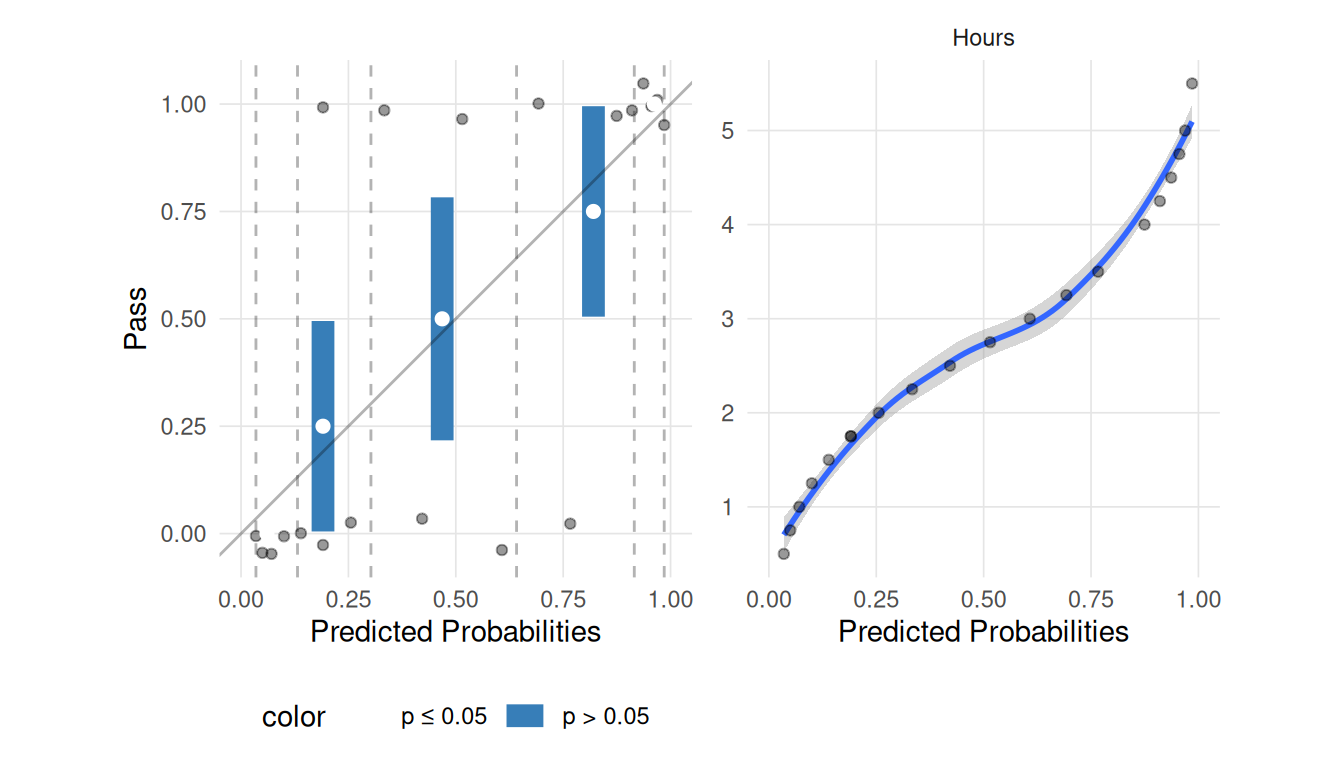
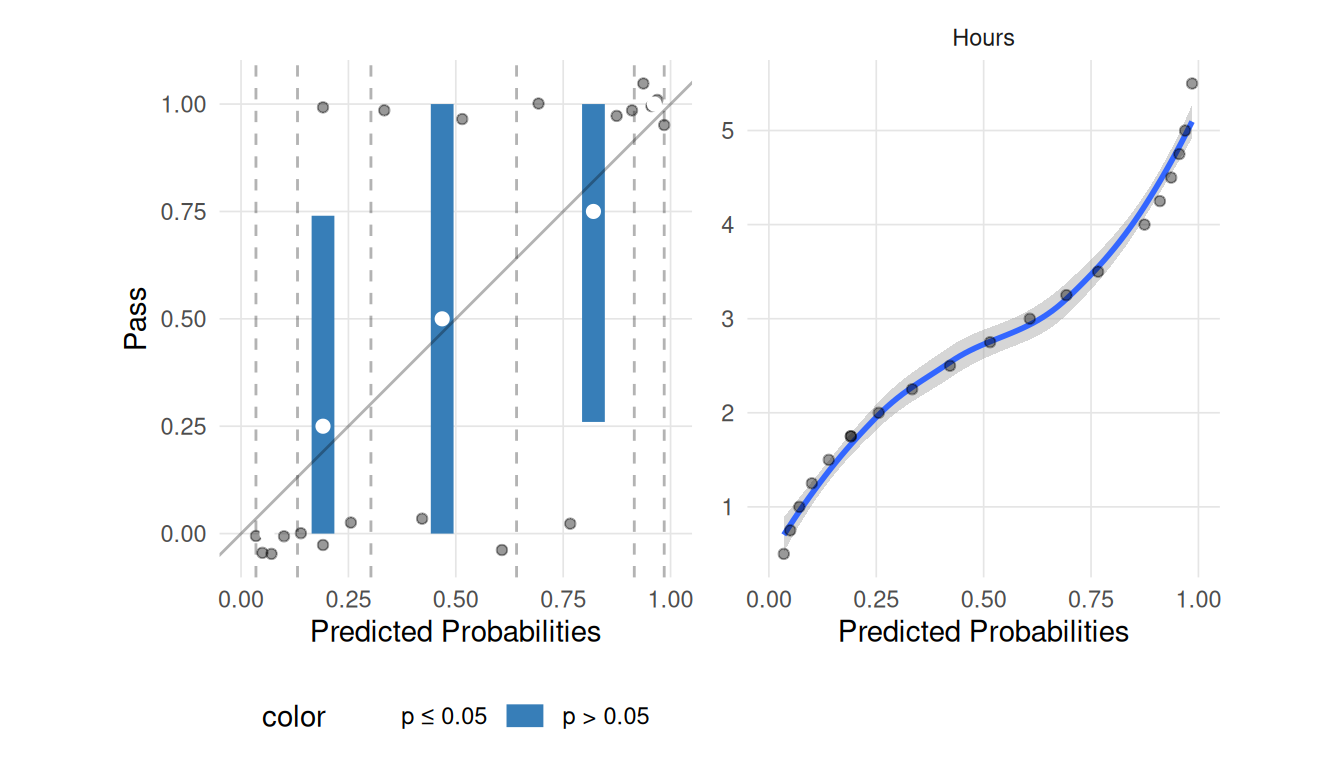
Deploying to gh-pages from @ jbryer/VisualStats@65b6923a7848272b700a2b97484047b2515f9708 🚀

diff --git a/descriptives.html b/descriptives.html
@@ -464,11 +464,11 @@ Figure&nbsp;3.5: Sample versus population variances as <em>n</em> increases.
 </details>
 <div class="cell-output cell-output-stdout">
 <pre><code>      n sample_var population_var  Difference
-495 496  0.9355734      0.9336872 0.001886237
-496 497  0.9336989      0.9318202 0.001878670
-497 498  0.9319703      0.9300989 0.001871426
-498 499  0.9301777      0.9283136 0.001864083
-499 500  0.9297171      0.9278577 0.001859434</code></pre>
+495 496   1.013745       1.011701 0.002043841
+496 497   1.012765       1.010727 0.002037757
+497 498   1.015033       1.012995 0.002038220
+498 499   1.014507       1.012474 0.002033080
+499 500   1.012474       1.010449 0.002024949</code></pre>
 </div>
 </div>
  <iframe id="example1" src="https://r.bryer.org/shiny/variance/" style="border: none; width: 100%; height: 400px" frameborder="0"></iframe>

diff --git a/index.html b/index.html
@@ -316,7 +316,7 @@ div.csl-indent {
 </header>
 
 
-<p><strong>Last updated on November 17, 2025</strong></p>
+<p><strong>Last updated on December 01, 2025</strong></p>
 <section id="introduction" class="level1" data-number="1">
 <h1 data-number="1"><span class="header-section-number">1</span> Introduction</h1>
 <p>This website is largely inspired by what our advisor, colleague, and friend Bob Pruzek called <em>elemental graphics.</em> The first two paragraphs from <span class="citation" data-cites="ElementalGraphics">Pruzek and Helmreich (<a href="references.html#ref-ElementalGraphics" role="doc-biblioref">2010</a>)</span> succinctly introduces the core ideas of <em>elemental graphics</em>:</p>
@@ -355,7 +355,7 @@ div.csl-indent {
  collate  C.UTF-8
  ctype    C.UTF-8
  tz       UTC
- date     2025-11-17
+ date     2025-12-01
  pandoc   3.1.3 @ /usr/bin/ (via rmarkdown)
  quarto   1.8.26 @ /usr/local/bin/quarto
 
@@ -364,7 +364,7 @@ div.csl-indent {
  cachem        1.1.0   2024-05-16 [1] RSPM
  cli           3.6.5   2025-04-23 [1] RSPM
  devtools      2.4.6   2025-10-03 [1] any (@2.4.6)
- digest        0.6.38  2025-11-12 [1] RSPM
+ digest        0.6.39  2025-11-19 [1] RSPM
  ellipsis      0.3.2   2021-04-29 [1] RSPM
  evaluate      1.0.5   2025-08-27 [1] RSPM
  fastmap       1.2.0   2024-05-15 [1] RSPM
@@ -388,7 +388,7 @@ div.csl-indent {
  usethis       3.2.1   2025-09-06 [1] RSPM
  vctrs         0.6.5   2023-12-01 [1] RSPM
  xfun          0.54    2025-10-30 [1] RSPM
- yaml          2.3.10  2024-07-26 [1] RSPM
+ yaml          2.3.11  2025-11-28 [1] CRAN (R 4.3.3)
 
  [1] /home/runner/work/_temp/Library
  [2] /opt/R/4.3.3/lib/R/site-library